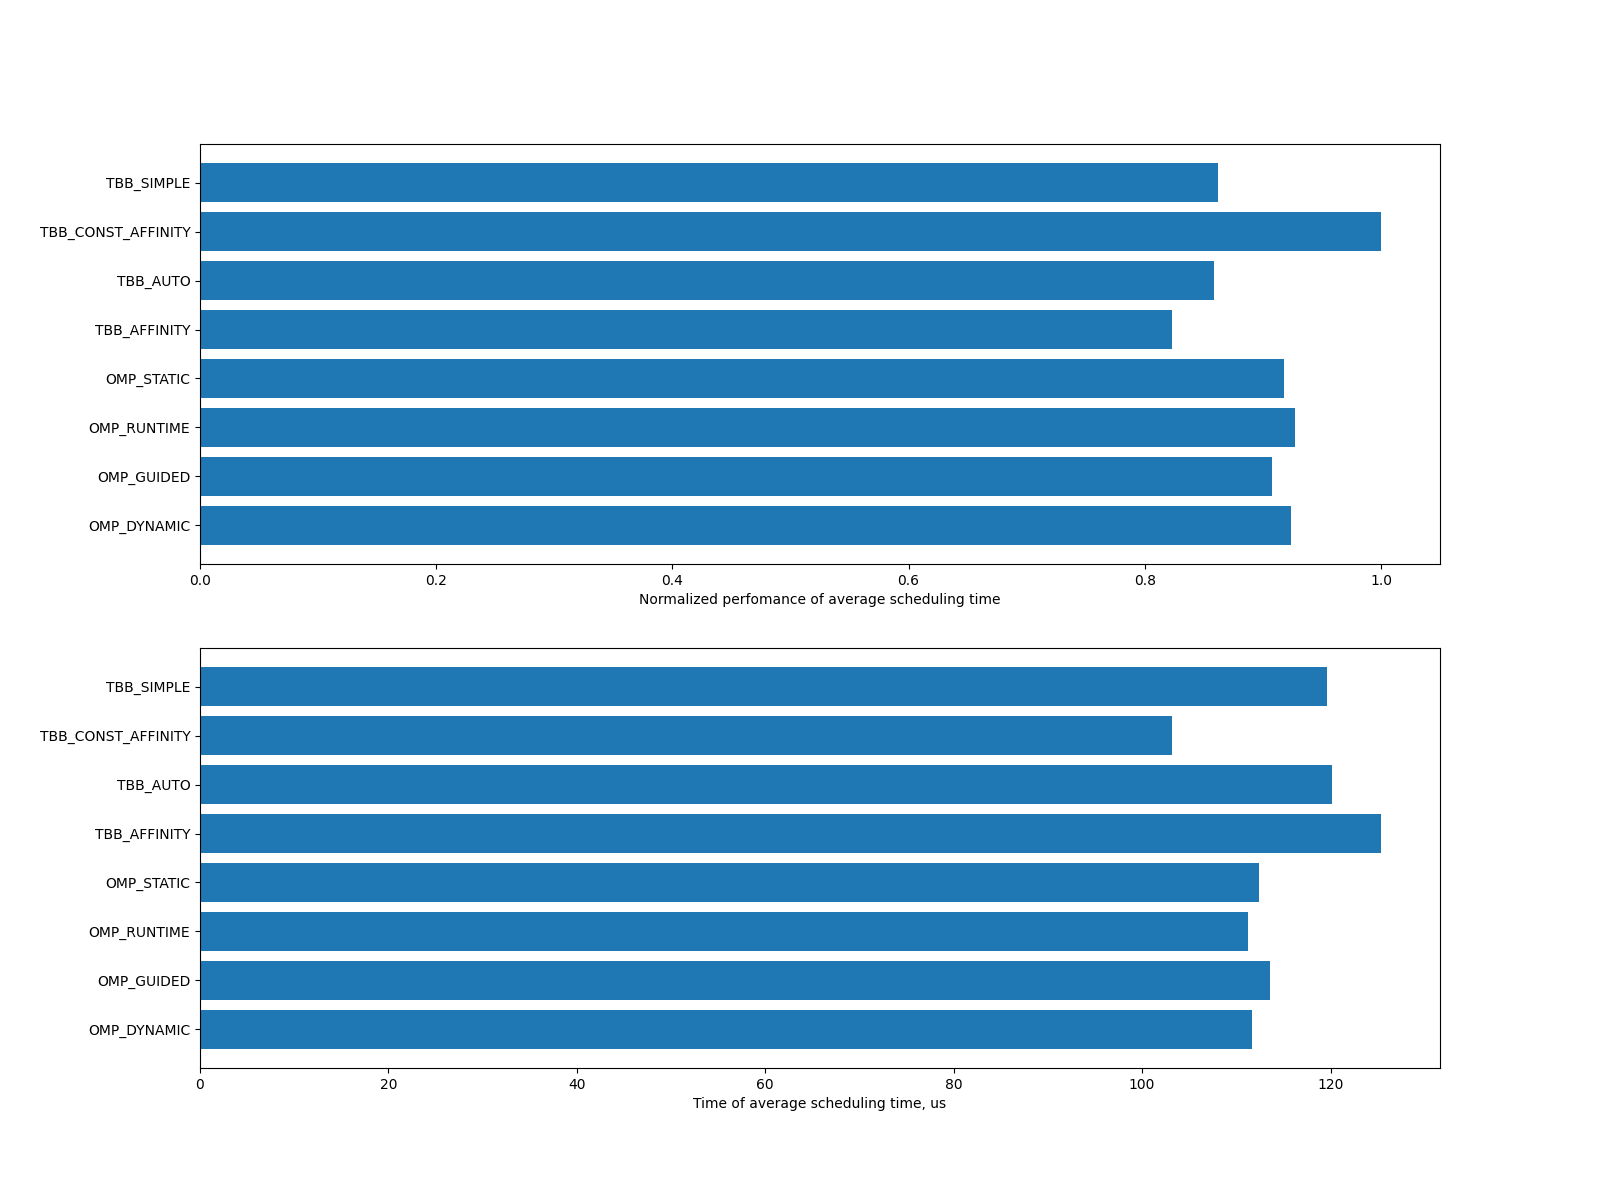
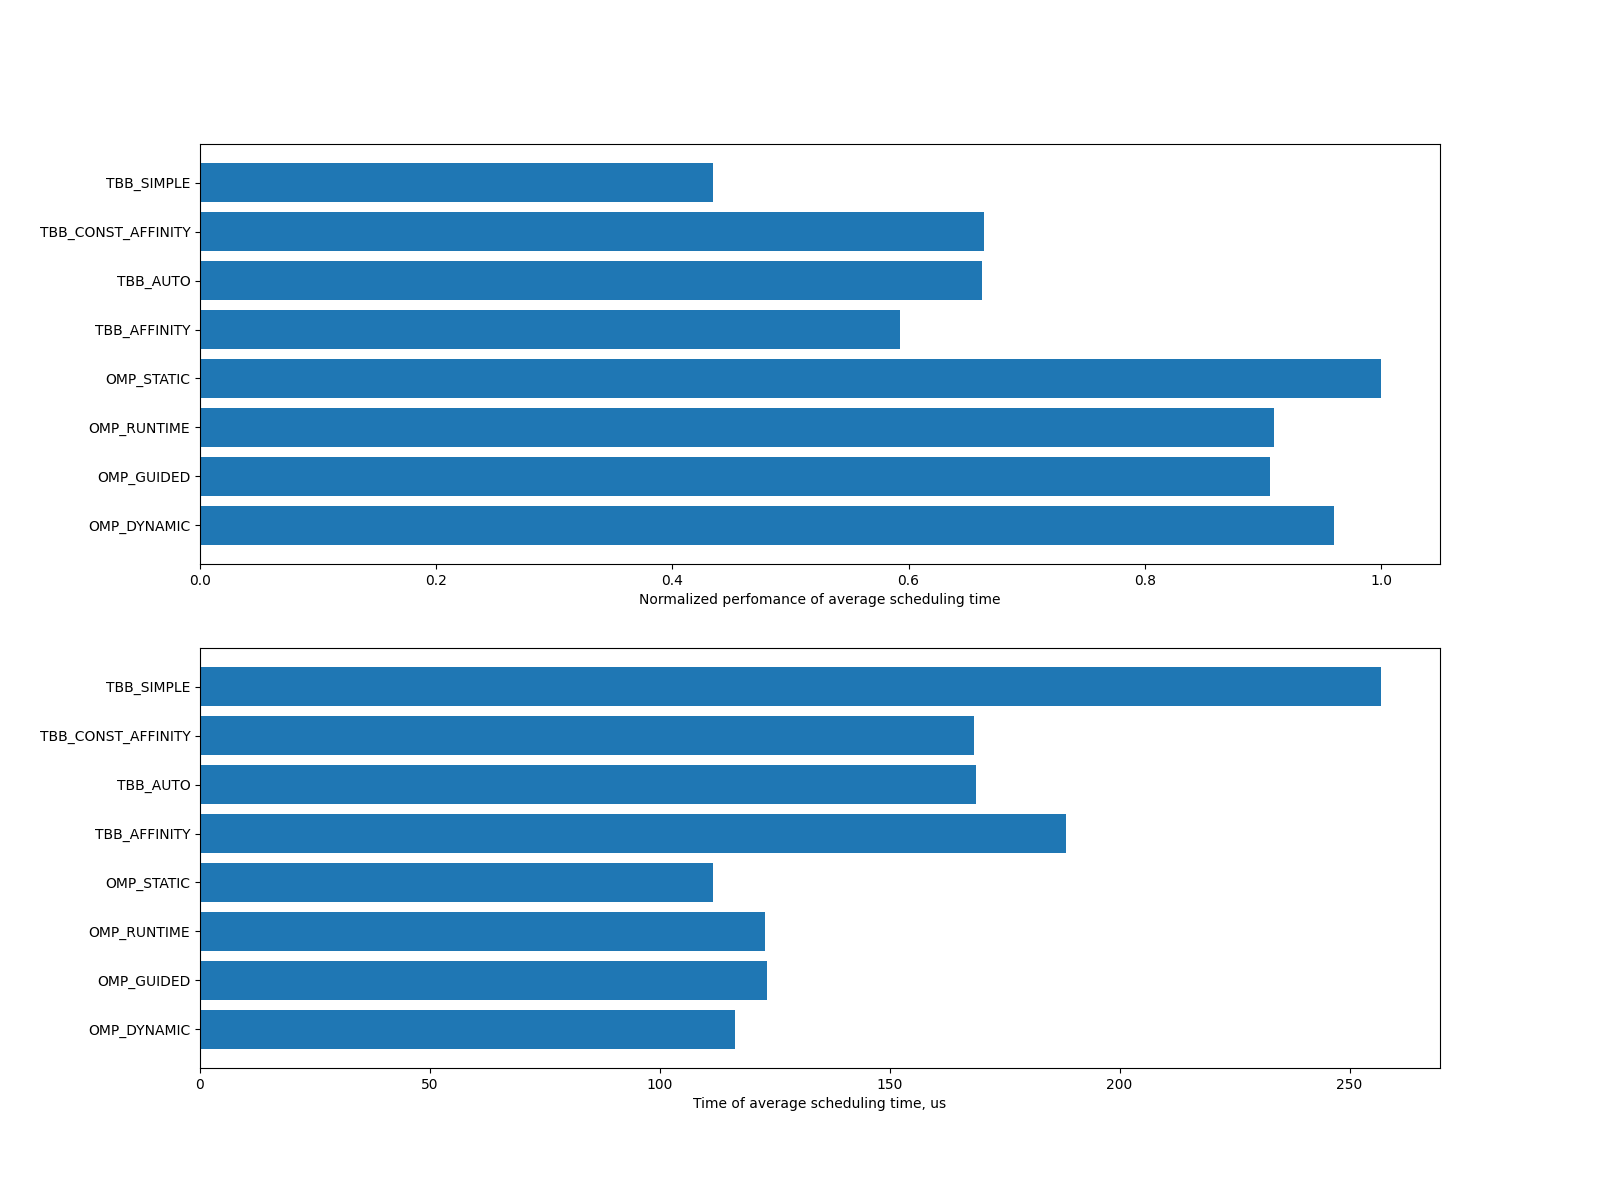
use rdtsc

diff --git a/benchmarks/bench_scheduling.cpp b/benchmarks/bench_scheduling.cpp
@@ -8,22 +8,33 @@
 #include <vector>
 
 namespace {
+
+static uint64_t Now() {
+#ifdef __x86_64__
+  return __rdtsc();
+#elif __arm__
+  uint64_t val;
+  asm volatile("mrs %0, cntvct_el0" : "=r"(val));
+  return val;
+#endif
+}
+
 struct TimeReporter {
   // saves time of first report in current generation
   // we need generations to reset times in all threads after each benchmark
   // just incrementing generation
-  void ReportTime(std::chrono::system_clock::time_point before) {
+  void ReportTime(uint64_t before) {
+    auto duration = Now() - before;
     if (reportedGen < totalGen) {
-      auto now = std::chrono::system_clock::now();
-      auto duration =
-          std::chrono::duration_cast<std::chrono::nanoseconds>(now - before);
+      // lock is aquired only once per generation
+      // so it doesn't affect result performance
       std::lock_guard<std::mutex> lock(mutex);
       times.push_back(duration);
       reportedGen = totalGen;
     }
   }
 
-  static std::vector<std::chrono::nanoseconds> GetTimes() {
+  static std::vector<uint64_t> GetTimes() {
     std::lock_guard<std::mutex> lock(mutex);
     return times;
   }
@@ -41,14 +52,14 @@ private:
 
   // common for all threads
   static inline std::mutex mutex;
-  static inline std::vector<std::chrono::nanoseconds> times; // nanoseconds
+  static inline std::vector<uint64_t> times; // nanoseconds
 };
 } // namespace
 
 static thread_local TimeReporter timeReporter;
 
-static std::vector<std::chrono::nanoseconds> runOnce(size_t threadNum) {
-  auto start = std::chrono::high_resolution_clock::now();
+static std::vector<uint64_t> runOnce(size_t threadNum) {
+  auto start = Now();
   // TODO: configure number of tasks to be sure that all threads are used?
   auto tasksNum = threadNum * 100;
   auto totalBenchTime = std::chrono::duration<double>(1);
@@ -64,6 +75,20 @@ static std::vector<std::chrono::nanoseconds> runOnce(size_t threadNum) {
   return times;
 }
 
+static void printTimes(size_t threadNum, const std::vector<uint64_t> &result) {
+  std::cout << "{";
+  std::cout << "\"thread_num\": " << threadNum << ", ";
+  std::cout << "\"used_threads\": " << result.size() << ", ";
+  std::cout << "\"start_times\": [";
+  for (size_t i = 0; i < result.size(); i++) {
+    std::cout << result[i];
+    if (i != result.size() - 1) {
+      std::cout << ", ";
+    }
+  }
+  std::cout << "]}" << std::endl;
+}
+
 int main(int argc, char **argv) {
   auto threadNum = GetNumThreads();
   if (argc > 1) {
@@ -72,23 +97,16 @@ int main(int argc, char **argv) {
   runOnce(threadNum); // just for warmup
 
   size_t repeat = 20;
-  std::vector<std::chrono::nanoseconds> result(threadNum);
+  std::vector<uint64_t> result(threadNum);
   for (size_t i = 0; i < repeat; i++) {
     auto times = runOnce(threadNum);
     for (size_t j = 0; j < threadNum; j++) {
       result[j] += times[j];
     }
   }
-  std::cout << "{";
-  std::cout << "\"thread_num\": " << threadNum << ", ";
-  std::cout << "\"used_threads\": " << result.size() << ", ";
-  std::cout << "\"start_times\": [";
-  for (size_t i = 0; i < result.size(); i++) {
-    std::cout << result[i].count() / repeat;
-    if (i != result.size() - 1) {
-      std::cout << ", ";
-    }
+  for (size_t j = 0; j < threadNum; j++) {
+    result[j] /= repeat;
   }
-  std::cout << "]}" << std::endl;
+  printTimes(threadNum, result);
   return 0;
 }
